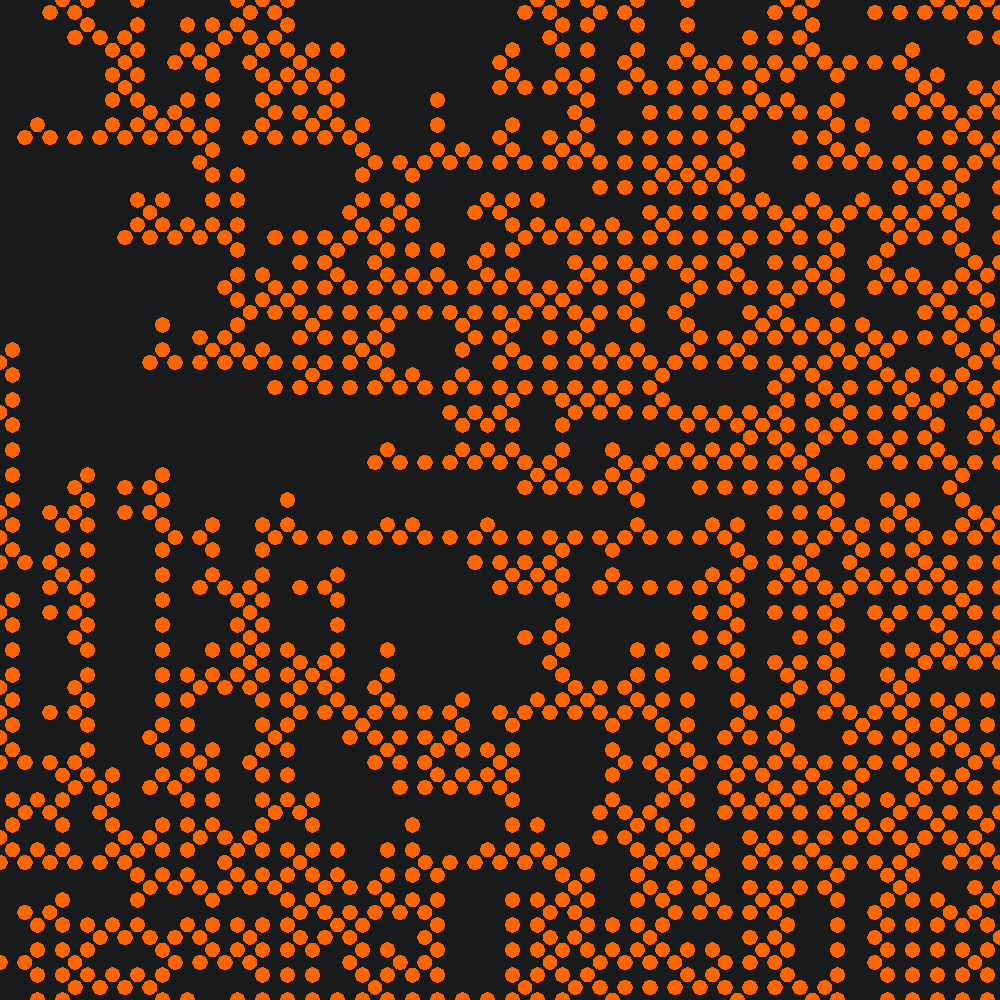
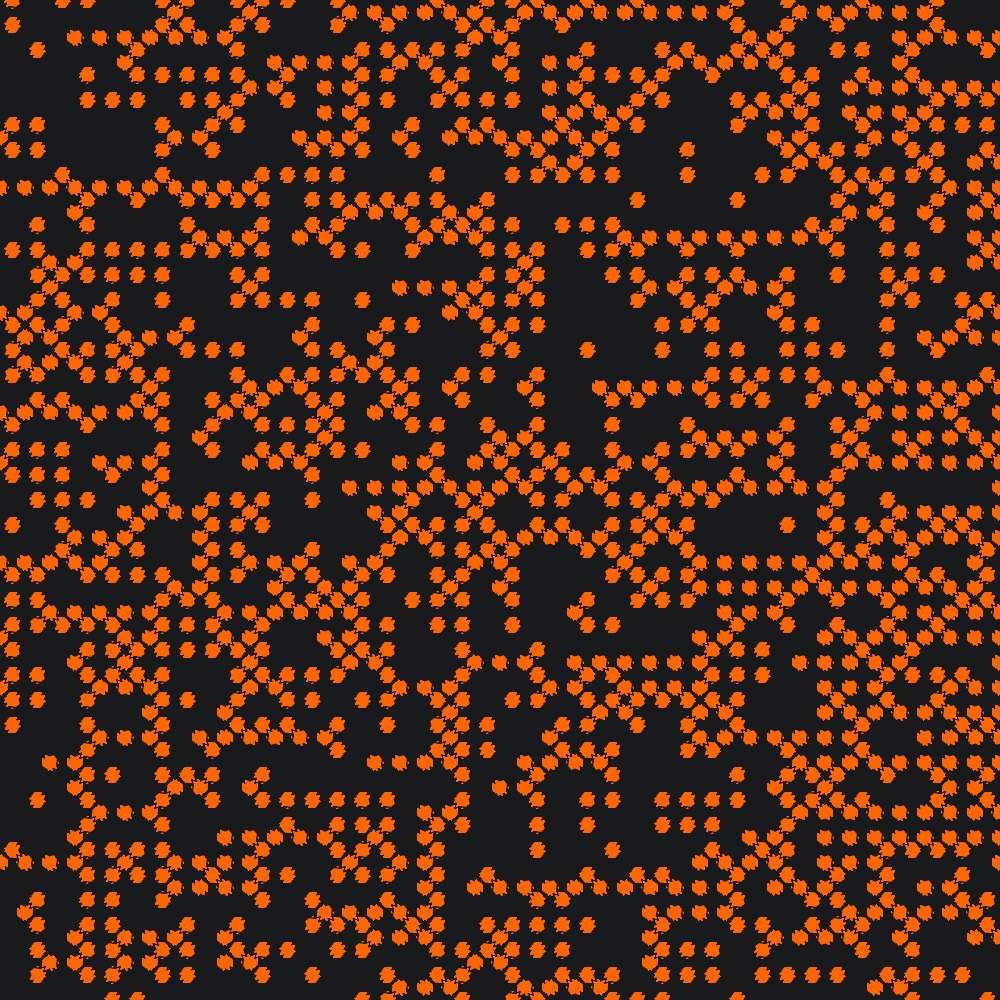
s_297

diff --git a/s_297/s_297.py b/s_297/s_297.py
@@ -12,6 +12,7 @@ def setup():
     py5.size(1000, 1000)
 
     images_dir = Path(__file__).parents[1] / "be5" / "algorithms" / "tiles" / "polka"
+    images_dir = Path(__file__).parent / "polka"
     blank = Tile.from_file(images_dir / "0.png", edges=[0, 0, 0, 0])
     ptr_1 = Tile.from_file(images_dir / "1.png", edges=[0, 1, 1, 1])
     ptr_2 = Tile.from_file(images_dir / "2.png", edges=[0, 1, 0, 1])
@@ -36,6 +37,8 @@ def setup():
 def draw():
     grid.collapse()
     grid.draw()
+
+    py5.save_frame(f"{py5.frame_count:05d}.png")
 
     if grid.complete:
         print("finished!")
